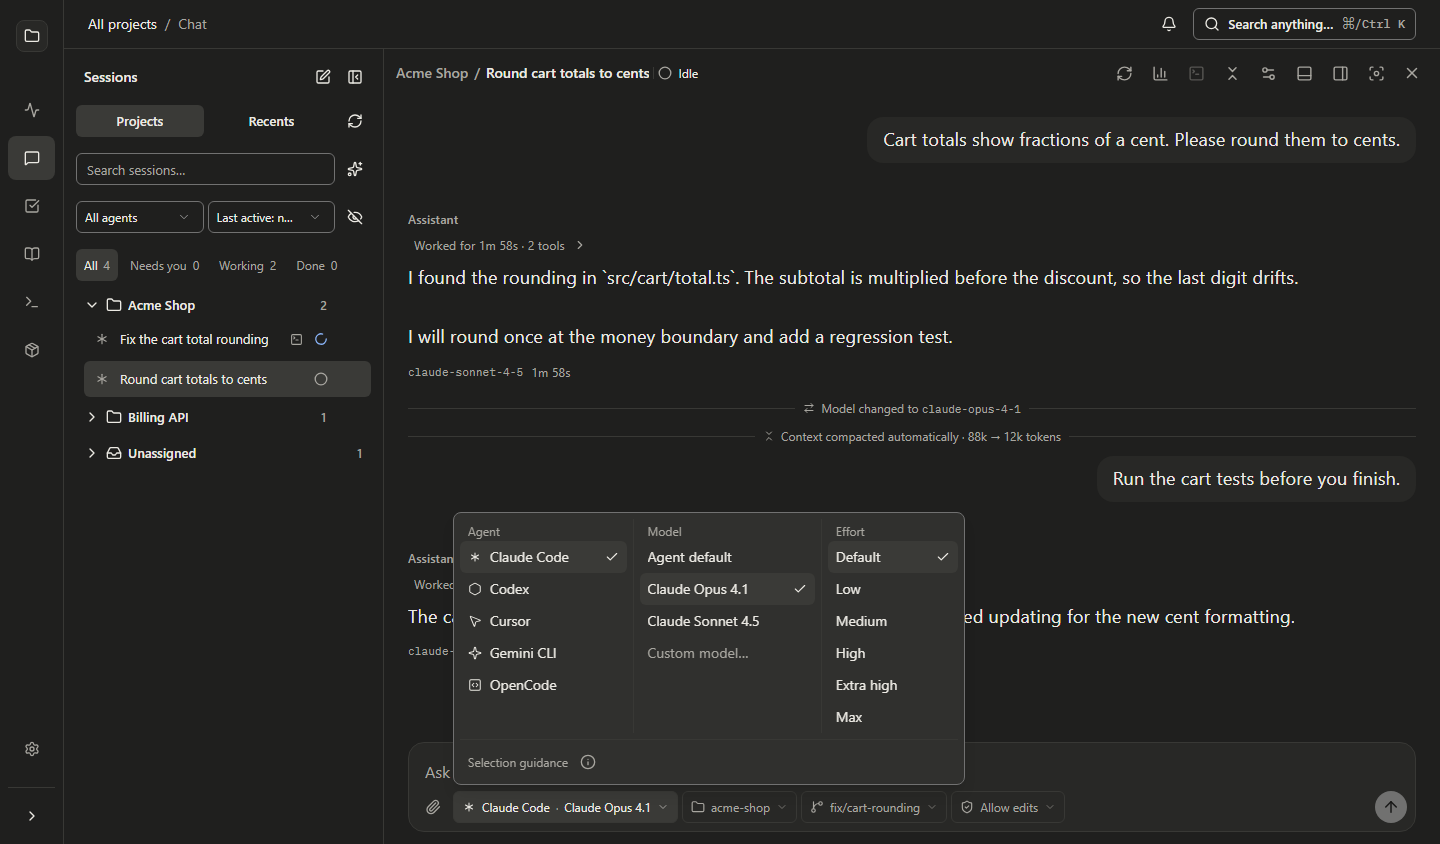
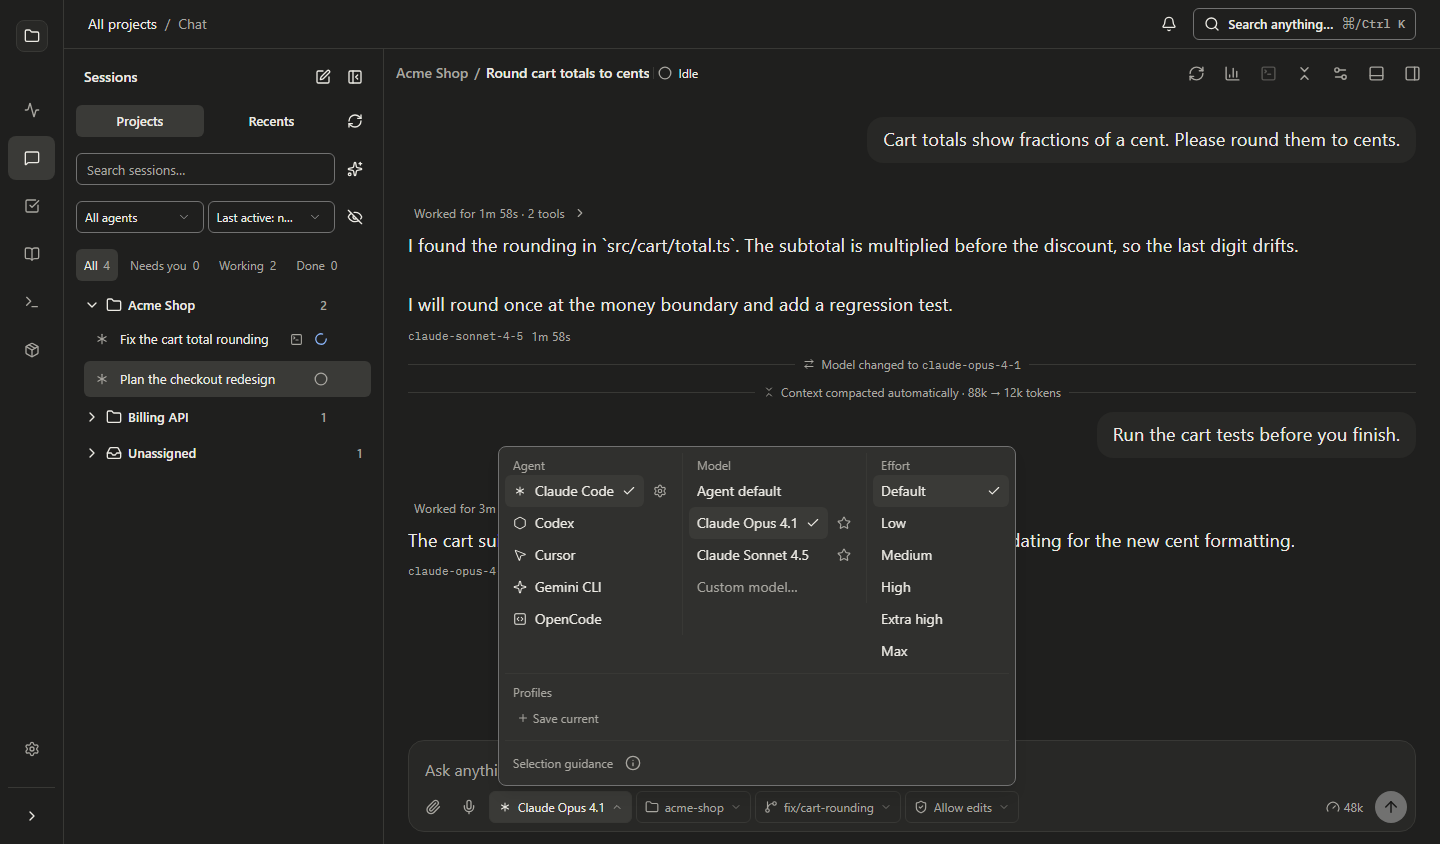
fix(chat): keep sideways scrolling inside the open model picker
The closed chip now truncates like every other chip; only a row inside the open picker scrolls sideways on touch. Escape after a row hover closes the tooltip before the panel, and the picker docs and screenshots show the hover-only details and profile-named chip.

diff --git a/packages/web/tests/e2e/composer-chips.e2e.ts b/packages/web/tests/e2e/composer-chips.e2e.ts
@@ -269,6 +269,9 @@ test("@sanity long model names stay readable in the composer chip and picker", a
         });
       }
       await page.keyboard.press("Escape");
+      await expect(page.getByTestId(`chat-model-tooltip-${scenario.id}`)).toBeHidden();
+      await page.keyboard.press("Escape");
+      await expect(page.getByTestId("chat-agent-model-picker")).toBeHidden();
       await expect(page.getByTestId("chat-send-button")).toBeVisible();
       expect(await page.evaluate(() => document.documentElement.scrollWidth <= innerWidth)).toBe(
         true,
@@ -279,7 +282,7 @@ test("@sanity long model names stay readable in the composer chip and picker", a
 
 test.describe("touch composer", () => {
   test.use({ hasTouch: true });
-  test("long model names scroll sideways in the chip without a scrollbar", async ({
+  test("long model names truncate in the chip and scroll sideways in the picker", async ({
     page,
     request,
   }) => {
@@ -306,11 +309,9 @@ test.describe("touch composer", () => {
       scrollbarWidth: getComputedStyle(element).scrollbarWidth,
       scrollable: element.scrollWidth > element.clientWidth,
     }));
-    expect(state).toEqual({ overflowX: "auto", scrollbarWidth: "none", scrollable: true });
-    await model.evaluate((element) => {
-      element.scrollLeft = 80;
-    });
-    expect(await model.evaluate((element) => element.scrollLeft)).toBeGreaterThan(0);
+    // The closed chip truncates; it is not a sideways scroller.
+    expect(state).toEqual({ overflowX: "hidden", scrollbarWidth: "auto", scrollable: true });
+    expect(await model.getAttribute("data-chip-scroll")).toBeNull();
     await page.screenshot({ path: test.info().outputPath("long-model-touch-820.png") });
     // No info icons anywhere; the hover popover is the only disclosure.
     await expect(page.getByTestId("chat-model-help")).toHaveCount(0);

diff --git a/packages/web/src/components/AgentModelPicker.tsx b/packages/web/src/components/AgentModelPicker.tsx
@@ -287,7 +287,7 @@ export function AgentModelPicker({
       type="button"
       data-chip-main
       data-testid={`${testIdPrefix}-agent-model-button`}
-      aria-label={`Agent and model: ${name}, ${accessibleSummary ?? modelName}`}
+      aria-label={`Agent and model: ${name}, ${accessibleSummary ?? modelName}${profileName ? `, profile ${profileName}` : ""}`}
       disabled={!ready}
       className="inline-flex min-w-0 flex-1 self-stretch items-center gap-1.5 focus-visible:outline-hidden"
     >
@@ -307,11 +307,7 @@ export function AgentModelPicker({
         </>
       )}
       <span data-chip-label className="flex min-w-0 items-center gap-1">
-        <span
-          data-chip-scroll
-          data-testid={`${testIdPrefix}-model-current`}
-          className="min-w-0 truncate"
-        >
+        <span data-testid={`${testIdPrefix}-model-current`} className="min-w-0 truncate">
           {profileName ?? modelName}
         </span>
         {effortLabel && (

diff --git a/packages/web/src/index.css b/packages/web/src/index.css
@@ -293,9 +293,9 @@ html[data-chat-font="serif"] {
   }
 }
 
-/* Touch: a truncated model label scrolls sideways instead of relying on hover;
-   the scrollbar stays hidden and scrolling does not chain to the composer row
-   or to the picker list. */
+/* Touch: a truncated row label inside the open picker scrolls sideways instead
+   of relying on hover; the scrollbar stays hidden and scrolling does not chain
+   to the picker list. The closed chip stays a plain truncation. */
 @media (pointer: coarse) {
   [data-chip-scroll] {
     overflow-x: auto;

diff --git a/docs/docs/desktop-and-web.md b/docs/docs/desktop-and-web.md
@@ -625,12 +625,15 @@ default or a level such as Low, High or Extra high; the choice applies to the ne
 turn and is kept with that agent's chat options. Other adapters have no effort
 setting.
 
-Each discovered model shows the agent's own description under its name, unless the
-description only repeats the name. When the agent reports which effort levels a
-model supports (Claude Code and Codex do), the Effort column lists only those; a
-model that reports none, such as Haiku, has no Effort column, and switching to a
-model that lacks the selected level resets it to the default. A list of more than
-six models adds a search field; Enter picks the first match.
+Rows show the provider's model label exactly as it arrives. Hovering a row while
+the panel is open reveals its full label, raw id and the agent's own description;
+nothing is hidden behind an icon or shown on the closed chip. A saved **composer
+profile** replaces the model name in the chip while the current agent, model,
+effort and permission mode still match it. When the agent reports which effort
+levels a model supports (Claude Code and Codex do), the Effort column lists only
+those; a model that reports none, such as Haiku, has no Effort column, and
+switching to a model that lacks the selected level resets it to the default. A
+list of more than six models adds a search field; Enter picks the first match.
 
 On a phone the picker opens on a Model tab, beside Agent and Effort tabs that are
 labelled with the current choices. Picking an agent moves to Model, picking a
